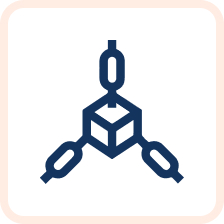
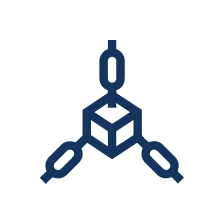
fix image border

Changed region(s): [[0.0, 0.0, 1.0, 1.0]]

diff --git a/_site/about/index.html b/_site/about/index.html
@@ -25,7 +25,7 @@
   <link href="https://fonts.googleapis.com/css2?family=Open+Sans:wght@400;600;700&display=swap" rel="stylesheet">
   <link rel="stylesheet" href="https://stackpath.bootstrapcdn.com/bootstrap/4.4.1/css/bootstrap.min.css" integrity="sha384-Vkoo8x4CGsO3+Hhxv8T/Q5PaXtkKtu6ug5TOeNV6gBiFeWPGFN9MuhOf23Q9Ifjh" crossorigin="anonymous">
   <link rel="stylesheet" type="text/css" href="https://cdn.jsdelivr.net/gh/ycodetech/horizontal-timeline-2.0@2/css/horizontal_timeline.2.0.min.css">
-  <link rel="stylesheet" href="http://localhost:4000/assets/style.css?1758189524702214300">
+  <link rel="stylesheet" href="http://localhost:4000/assets/style.css?1763083420631866800">
   <link rel="stylesheet" href="https://cdnjs.cloudflare.com/ajax/libs/animate.css/4.1.1/animate.min.css"/><link type="application/atom+xml" rel="alternate" href="http://localhost:4000/feed.xml" title="OAX Foundation" /><script src="https://code.jquery.com/jquery-3.5.1.slim.min.js" integrity="sha384-DfXdz2htPH0lsSSs5nCTpuj/zy4C+OGpamoFVy38MVBnE+IbbVYUew+OrCXaRkfj" crossorigin="anonymous"></script>
   <script>
     jQuery( document ).ready(
@@ -102,70 +102,70 @@
 
 <div class="bg-white pt-5 mt-5 sections">
     <div id="our-mission" class="container section pt-5">
-        <div class="d-flex flex-column-reverse flex-lg-row row">
+        <div class="d-flex flex-column-reverse flex-lg-row row" style="flex-direction: column;">
             <div class="d-flex flex-column col mt-5 mt-lg-0 justify-content-center">
                 <div class="d-flex flex-row">
-                    <div class="section--title mb-4 mr-2">Compliance Meets Innovation</div>                                 
+                    <div class="section--title mb-4 mr-2" style="font-size: 28px; width: 317px; margin-bottom: 20px; line-height: 1.2;">Compliance Meets Innovation</div>                                 
                 </div>
-                <div class="section--description">As a Foundation, we believe in growing and contributing to the industry however we can; not just via technology development but also research, community and ecosystem support. <br /><br /> We empower innovators to thrive in Web3, joining a mission to build a secure, scalable, digital finance ecosystem with AI-driven tools and regulatory-grade infrastructure, bridging the gap between TradFi and DeFi. <br /><br />Read on below to see the full scope of our Foundation's values and work.</div>
+                <div class="section--description" style="padding-top: 15px; margin-bottom: 20px; font-size: 16px;">As a Foundation, we believe in growing and contributing to the industry however we can; not just via technology development but also research, community and ecosystem support. <br /><br /> We empower innovators to thrive in Web3, joining a mission to build a secure, scalable, digital finance ecosystem with AI-driven tools and regulatory-grade infrastructure, bridging the gap between TradFi and DeFi. <br /><br />Read on below to see the full scope of our Foundation's values and work.</div>
             </div>
-         <div class="col d-flex flex-row justify-content-center align-items-center mt-5 ml-lg-0 text-center text-lg-right">
+         <div class="col d-flex flex-row justify-content-center align-items-center mt-5 ml-lg-0 text-center text-lg-right" style="margin-top: 20px; text-align: center;">
                 <div>
-                    <img class="w-85" src="/assets/about/About-Page-1.png" alt="our mission" />
+                    <img class="w-85" src="/assets/about/About-Compliance.png" alt="our mission" style="width: 100%; max-width: 85%;" />
                 </div>
             </div>
         </div>
     </div>
 
+
     <div id="pillar1" class="section" style="background-image: url(/assets/about/pillar.1.bg.jpg); display: flex; justify-content: center; background-size: cover;">
-        <div class="d-flex flex-column-reverse flex-lg-row-reverse container">
-            <div class="d-flex flex-column col" style="justify-content: center;">
+        <div class="d-flex flex-column-reverse flex-lg-row-reverse container" style="flex-direction: column;">
+            <div class="d-flex flex-column col justify-content-center">
                 <div class="d-flex flex-row mt-5 mt-lg-0">
-                    <div class="section--title mb-4 mr-2" style="width: 317px;">Break Barriers with OAX Learn</div>
+                    <div class="section--title mb-4 mr-2" style="font-size: 28px; width: 317px; margin-bottom: 20px; line-height: 1.2;">Break Barriers with OAX Learn</div>
                     <!-- <div class="line mt-3 mt-lg-4"></div> -->
                 </div>
-                <div class="section--description">At the core of our foundation, we aim to empower both new and experienced users with support and knowledge. OAX Learn was created to reduce barriers to entering the digital assets ecosystem and enhance financial literacy through research articles, guides, and industry insights, enabling our community to navigate an ever-evolving regulatory landscape.
+                <div class="section--description" style="padding-top: 15px; margin-bottom: 20px; font-size: 16px;">At the core of our foundation, we aim to empower both new and experienced users with support and knowledge. OAX Learn was created to reduce barriers to entering the digital assets ecosystem and enhance financial literacy through research articles, guides, and industry insights, enabling our community to navigate an ever-evolving regulatory landscape.
                     <br />
                     <br />
                     If you would like to also contribute to this growing space, please reach out to us via any of our channels! To stay updated with OAX Learn's content rollouts, please follow us on our Social Media channels and subscribe to the OAX Foundation Newsletter.</div>
             </div>
-            <div class="col d-flex flex-row justify-content-center align-items-center mt-5 ml-lg-0 text-center text-lg-left">
-                <div><img class="w-85" src="/assets/about/About-Page-2-v1.png" alt="our mission" />
+            <div class="col d-flex flex-row justify-content-center align-items-center mt-5 ml-lg-0 text-center text-lg-left" style="margin-top: 20px; text-align: center;">
+                <div><img class="w-85" src="/assets/about/About-Barriers.png" alt="our mission" style="width: 100%; max-width: 85%;" />
                 </div>
             </div>
         </div>
     </div>
 
 
-    <div id="pillar2" class="container section">
-        <div class="d-flex flex-column-reverse flex-lg-row row">
+  <div id="pillar2" class="container section">
+        <div class="d-flex flex-column-reverse flex-lg-row row" style="flex-direction: column;">
             <div class="d-flex flex-column col mt-5 mt-lg-0">
                 <div class="d-flex flex-row">
-                    <div class="section--title mb-4 mr-2">Accelerating DeFi Through AI</div>
+                    <div class="section--title mb-4 mr-2" style="font-size: 28px; width: 317px; margin-bottom: 20px; line-height: 1.2;">Accelerating DeFi Through AI</div>
                     <!-- <div class="line mt-3 mt-lg-4"></div> -->
                 </div>
-                <div class="section--description">What the end goal looks like for digital finance remains unknown, and to spell it out may do a disservice of limiting its potential. OAX Foundation believes that the journey for digital assets includes DeFi and has been working to support its development.
+                <div class="section--description" style="padding-top: 15px; margin-bottom: 20px; font-size: 16px;">What the end goal looks like for digital finance remains unknown, and to spell it out may do a disservice of limiting its potential. OAX Foundation believes that the journey for digital assets includes DeFi and has been working to support its development.
                     <br /><br />
                     From developing features for the Polkadot Network to collaborating with like-minded industry institutions, DeFi continues to hold immense promise for the industry. It has evolved within the Web3 ecosystem, leveraging emerging AI technologies to address its challenges and unlock new potential.
                     <br /><br />
                     Learn more about the potential of DeFi in some of our thought pieces.</div>
             </div>
-            <div class="col d-flex flex-row justify-content-center align-items-center mt-5 ml-lg-0 text-center text-lg-right">
-                <div><img class="w-75" src="/assets/about/pillar.2.jpg" alt="our mission" />
+            <div class="col d-flex flex-row justify-content-center align-items-center mt-5 ml-lg-0 text-center text-lg-right" style="margin-top: 20px; text-align: center;">
+                <div><img class="w-85" src="/assets/about/About-DeFi.png" alt="our mission" style="width: 100%; max-width: 85%;" />
                 </div>
             </div>
         </div>
     </div>
 
-    <div id="pillar3" class="section" style="background-image: url(/assets/about/pillar.3.bg.jpg); display: flex; justify-content: center; background-size: cover;">
-        <div class="d-flex flex-column-reverse flex-lg-row-reverse row container">
+      <div id="pillar3" class="section" style="background-image: url(/assets/about/pillar.3.bg.jpg); display: flex; justify-content: center; background-size: cover;">
+        <div class="d-flex flex-column-reverse flex-lg-row-reverse row container" style="flex-direction: column;">
             <div class="d-flex flex-column col mt-5 mt-lg-0">
                 <div class="d-flex flex-row">
-                    <div class="section--title mb-4 mr-2">A Community of <br />
-                        Collaborators</div>
+                    <div class="section--title mb-4 mr-2" style="font-size: 28px; width: 317px; margin-bottom: 20px; line-height: 1.2;">A Community of <br />Collaborators</div>
                     <!-- <div class="line mt-3 mt-lg-4"></div> -->
                 </div>
-                <div class="section--description">From attending events as speakers, evaluating proposals that may align with our vision, to sponsoring industry reports and research, OAX Foundation believes in the necessity of building a strong ecosystem for the digital asset industry.
+                <div class="section--description" style="padding-top: 15px; margin-bottom: 20px; font-size: 16px;">From attending events as speakers, evaluating proposals that may align with our vision, to sponsoring industry reports and research, OAX Foundation believes in the necessity of building a strong ecosystem for the digital asset industry.
                     <br /><br />
                     OAX Foundation always has their door open to hear from parties that share alignment in our values and have ideas on how we can further integrate decentralization into the digital asset age.
                     <br /><br />
@@ -179,34 +179,31 @@
                     <br /><br />
                     If you’re interested in speaking to OAX, contact us. Information about some past work can be seen on our Resources and News page.</div>
             </div>
-            <div class="col d-flex flex-row justify-content-center align-items-center mt-5 ml-lg-0  text-center text-lg-left">
-                <div><img class="w-75" src="/assets/about/pillar.3.png" alt="our mission" />
+            <div class="col d-flex flex-row justify-content-center align-items-center mt-5 ml-lg-0  text-center text-lg-left" style="margin-top: 20px; text-align: center;">
+                <div><img class="w-85" src="/assets/about/About-Collab.png" alt="our mission" style="width: 100%; max-width: 85%;" />
                 </div>
             </div>
         </div>
     </div>
 
     <div id="pillar4" class="container section">
-        <div class="d-flex flex-column-reverse flex-lg-row row">
+        <div class="d-flex flex-column-reverse flex-lg-row row" style="flex-direction: column;">
             <div class="d-flex flex-column col mt-5 mt-lg-0">
                 <div class="d-flex flex-row">
-                    <div class="section--title mb-4 mr-2">Blockchain and Beyond</div>
+                    <div class="section--title mb-4 mr-2" style="font-size: 28px; width: 317px; margin-bottom: 20px; line-height: 1.2;">Blockchain and Beyond</div>
                     <!-- <div class="line mt-3 mt-lg-4"></div> -->
                 </div>
-                <div class="section--description">From the very beginning of OAX Foundation’s inception, we’ve placed the highest regard to promoting the technology that is required for digital assets to flourish. While roadmaps and timelines constantly shift, we believe that the work often needs to be offered with transparency, ensuring that it’s being driven in the right direction and with the feedback of the community.
-                <br /><br />
-The launch of our Notifs app pulls information available from blockchain and in the public domain to consolidate and provide relevant information to your specific portfolio. You can also link to our Github page to review the open source work that has been done in the past for OAX Layer 2 Protocol (L2X) and the feature development for parachains in the Polkadot Network. 
-</div>
+                <div class="section--description" style="padding-top: 15px; margin-bottom: 20px; font-size: 16px;">From the very beginning of OAX Foundation’s inception, we’ve placed the highest regard to promoting the technology that is required for digital assets to flourish. While roadmaps and timelines constantly shift, we believe that the work often needs to be offered with transparency, ensuring that it’s being driven in the right direction and with the feedback of the community.
+                <br /><br />The launch of our Notifs app pulls information available from blockchain and in the public domain to consolidate and provide relevant information to your specific portfolio. You can also link to our Github page to review the open source work that has been done in the past for OAX Layer 2 Protocol (L2X) and the feature development for parachains in the Polkadot Network. </div>
             </div>
-            <div class="col d-flex flex-row justify-content-center align-items-center mt-5 ml-lg-0 text-center text-lg-right">
-                <div><img class="w-75" src="/assets/about/pillar.1.png" alt="our mission" />
+            <div class="col d-flex flex-row justify-content-center align-items-center mt-5 ml-lg-0 text-center text-lg-right" style="margin-top: 20px; text-align: center;">
+                <div><img class="w-85" src="/assets/about/About-Blockchain.png" alt="our mission" style="width: 100%; max-width: 85%;" />
                 </div>
             </div>
         </div>
     </div>
-     
-
 </div>
+
 
 </article>
 
@@ -329,7 +326,7 @@ The launch of our Notifs app pulls information available from blockchain and in 
 
 <script src="https://cdn.jsdelivr.net/npm/bootstrap@4.5.3/dist/js/bootstrap.bundle.min.js" integrity="sha384-ho+j7jyWK8fNQe+A12Hb8AhRq26LrZ/JpcUGGOn+Y7RsweNrtN/tE3MoK7ZeZDyx" crossorigin="anonymous"></script>
 <script src="https://cdn.jsdelivr.net/gh/ycodetech/horizontal-timeline-2.0@2/JavaScript/horizontal_timeline.2.0.min.js"></script>
-<script src="http://localhost:4000/assets/js/app.js?1758189524702214300"></script>
+<script src="http://localhost:4000/assets/js/app.js?1763083420631866800"></script>
 </body>
 
 </html>
